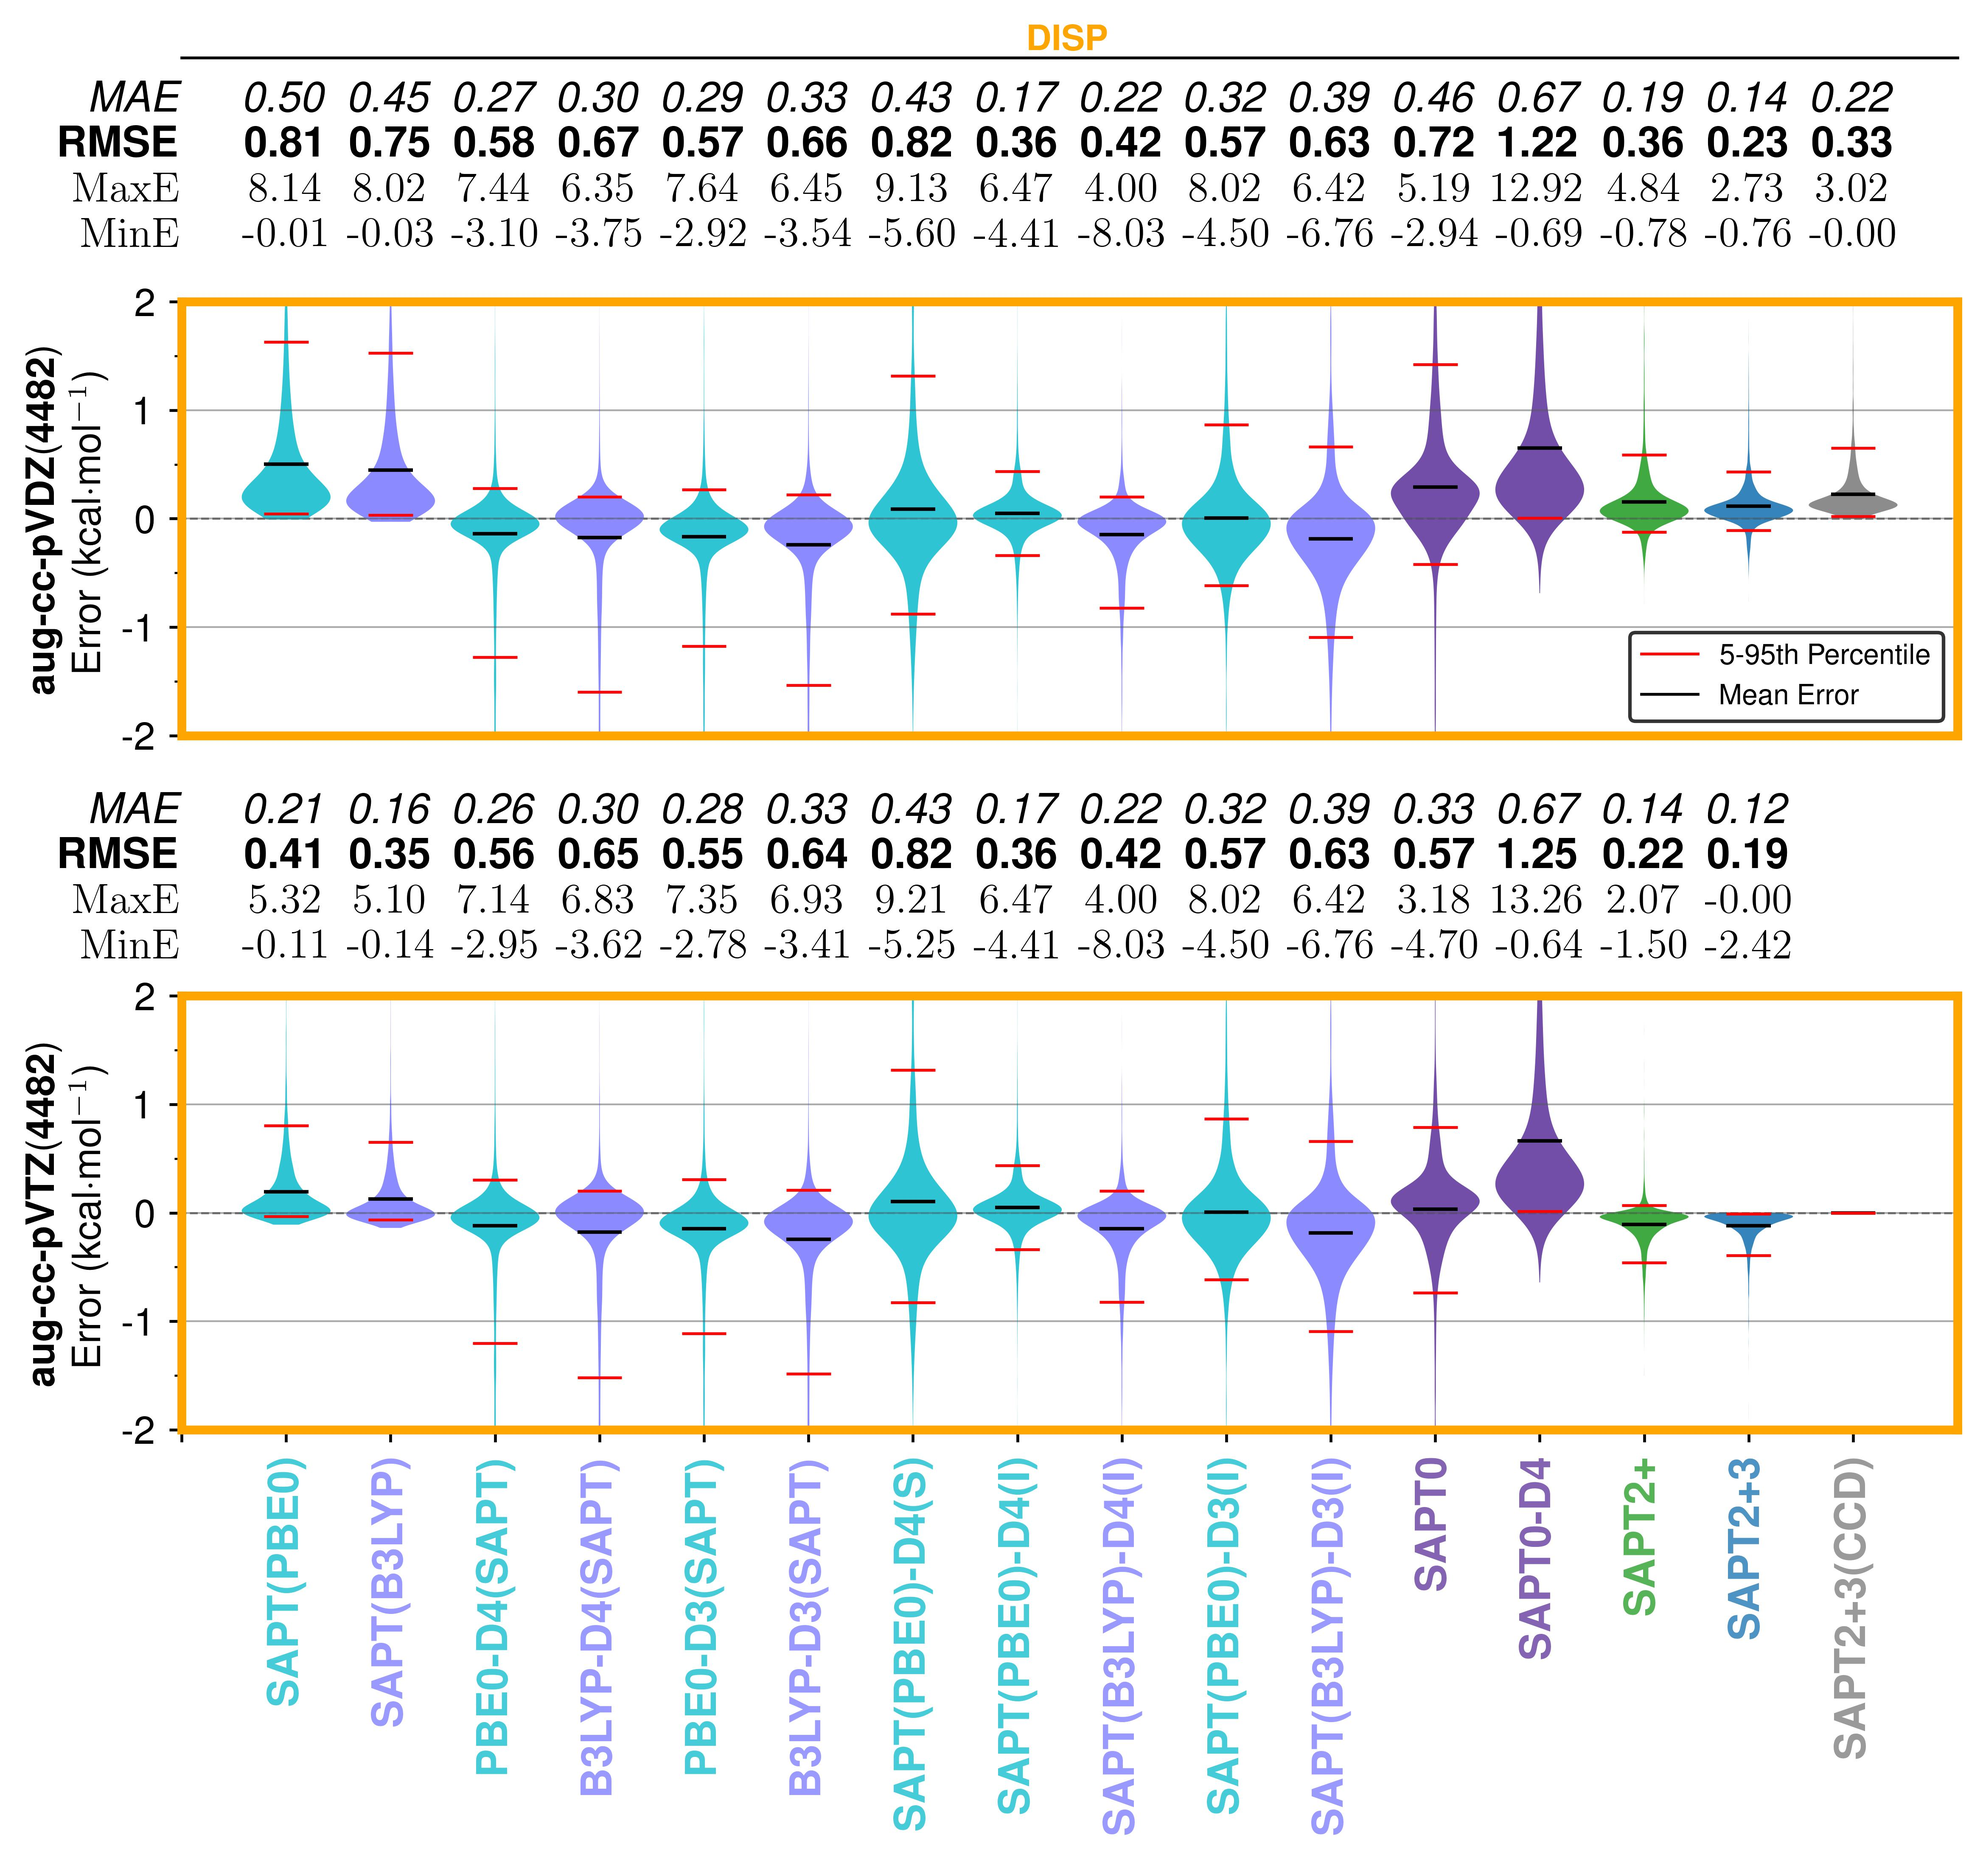
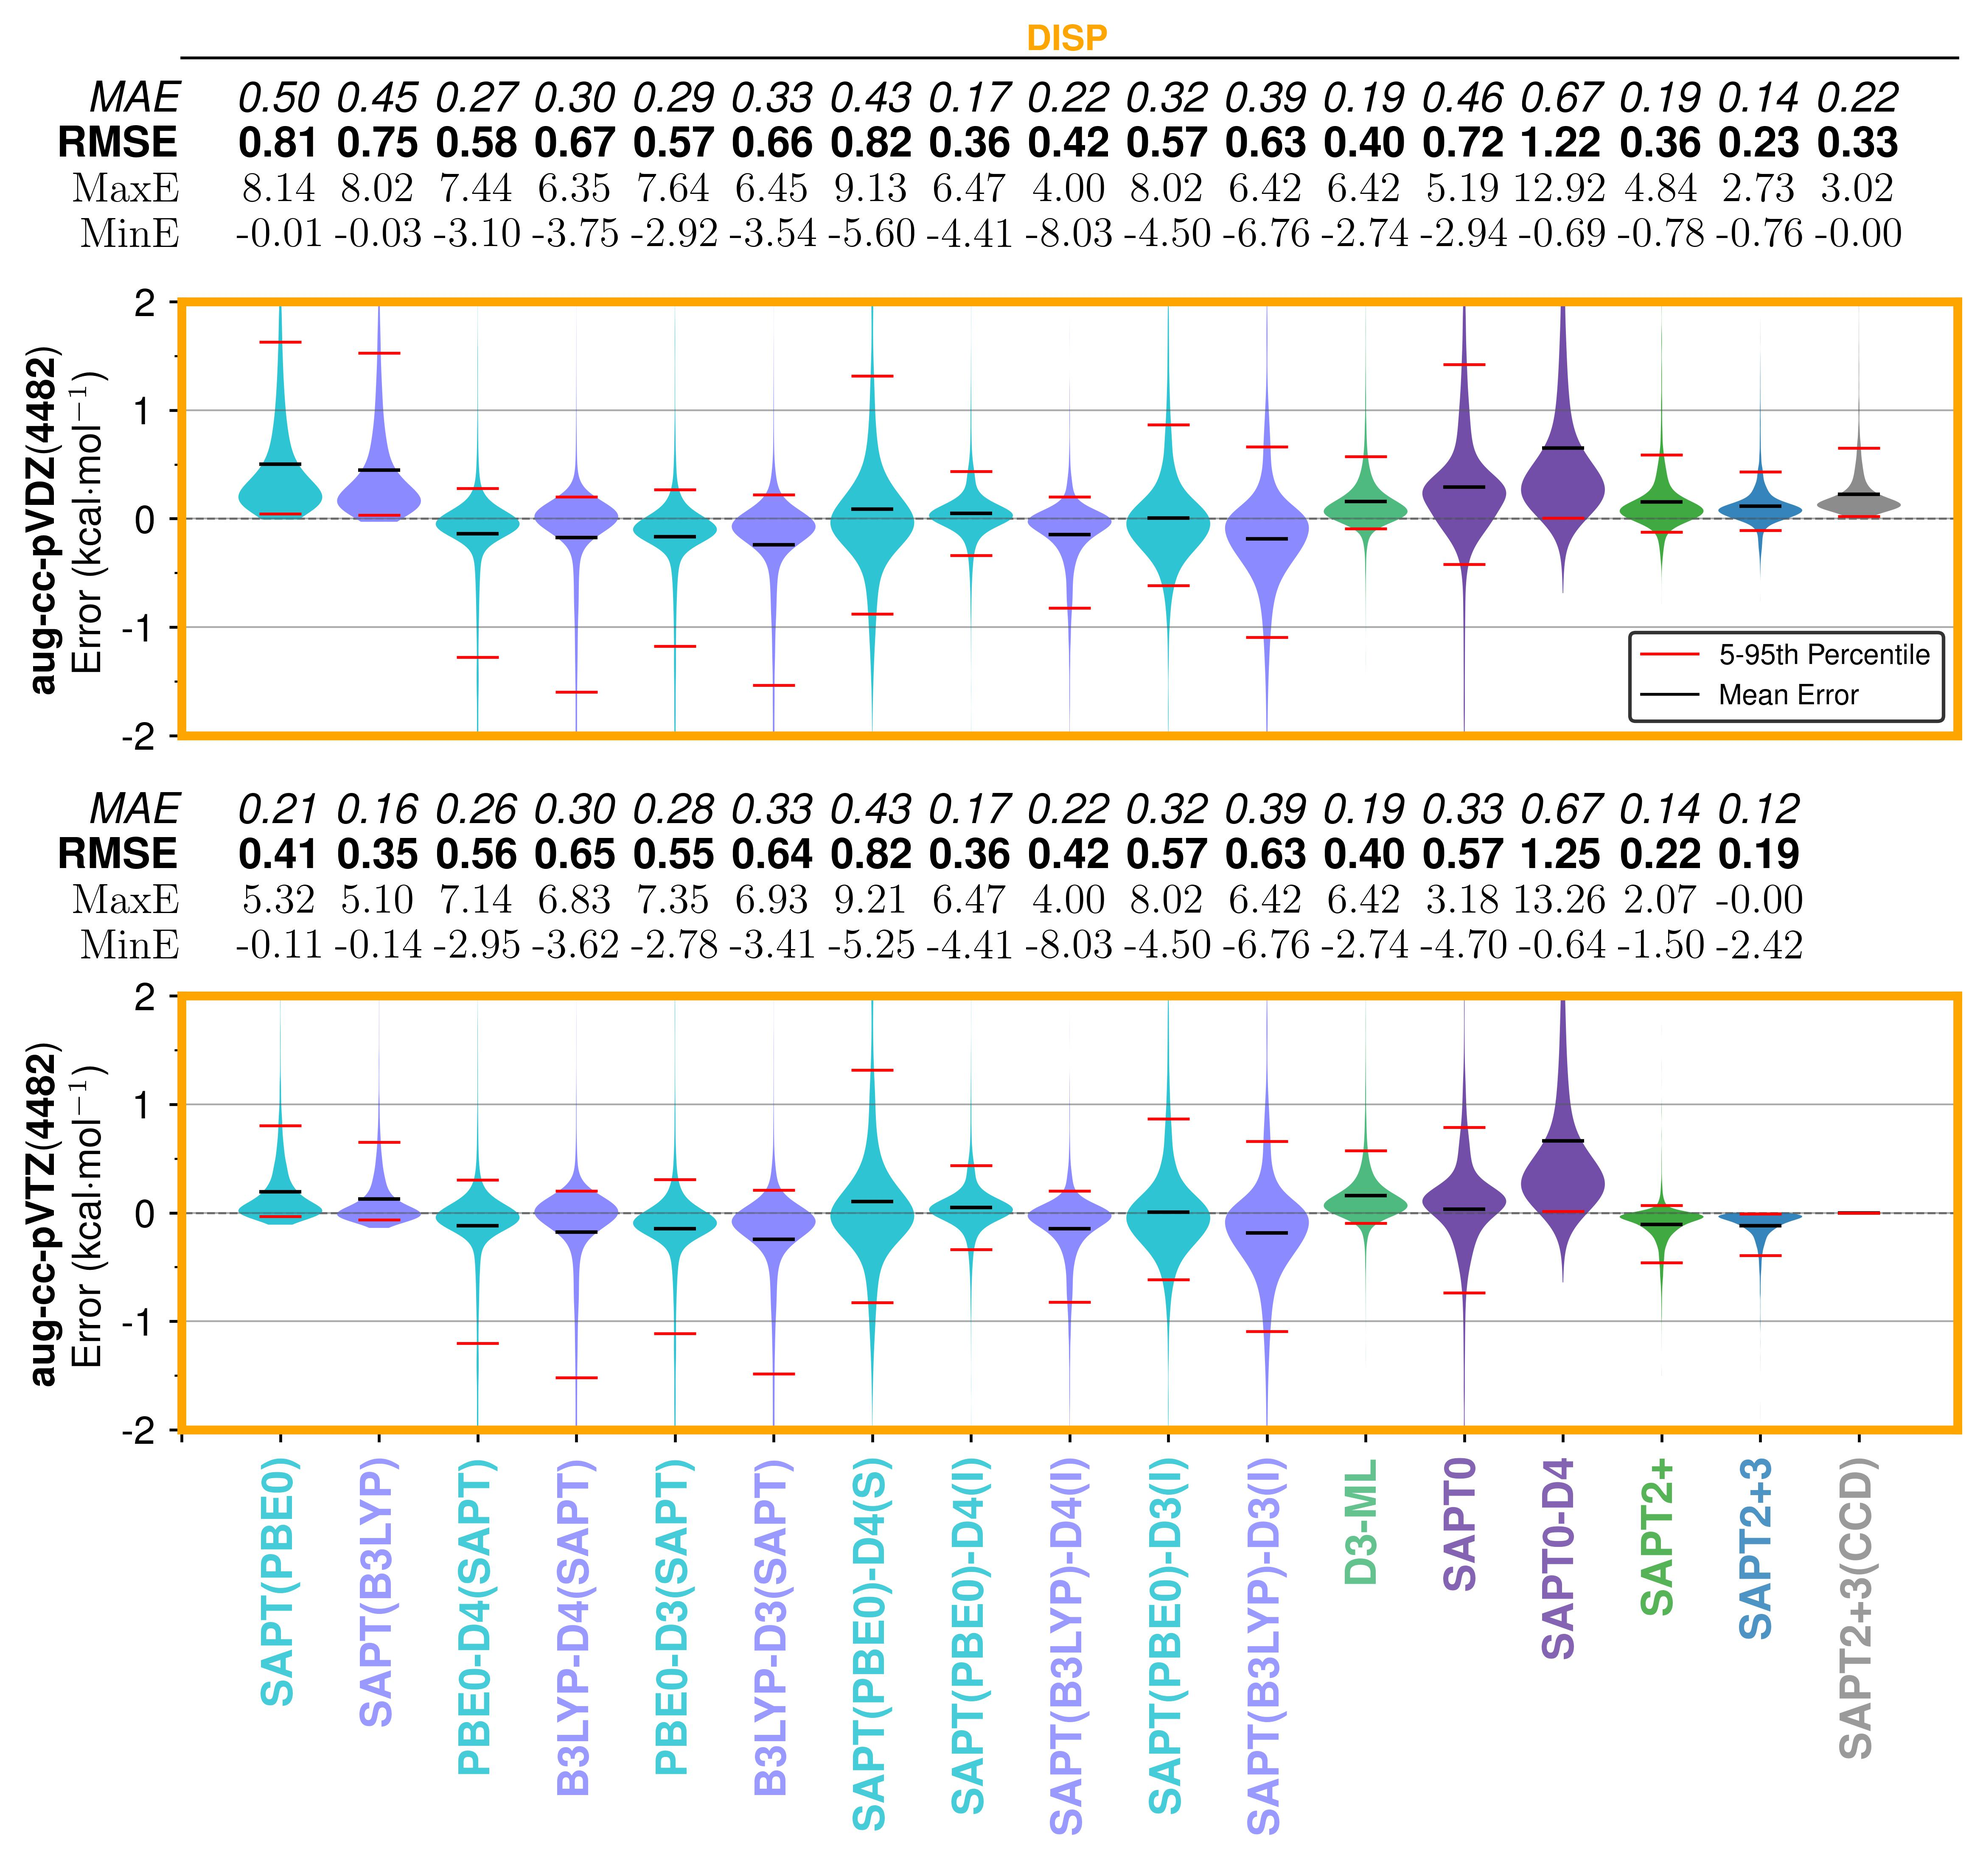
updates

diff --git a/src/plotting_saptdft.py b/src/plotting_saptdft.py
@@ -148,7 +148,7 @@ colors_disp_saptdftd4 = [
     ]
 ]
 
-colors_disp_saptdftd4_SI = [
+colors_disp_saptdftd4_si = [
     [
         TEAL,
         LIGHT_PURPLE,
@@ -4453,7 +4453,7 @@ def _disp_plot_labels():
     }
 
 
-def _disp_plot_labels_SI():
+def _disp_plot_labels_si():
     return {
         "SAPT(PBE0)": "SAPT(DFT) [PBE0] DISP ENERGY Error",
         "SAPT(B3LYP)": "SAPT(DFT) [B3LYP] DISP ENERGY Error",
@@ -5906,6 +5906,17 @@ def violin_plots_multi_components(
             limit_to_column_not_nan=limit_to_column_not_nan,
             subset_only=False,
         )
+
+    if "SI-" in figure_name_disp:
+        df_labels_and_columns = _filter_plot_labels_by_available_columns(
+            _disp_plot_labels_si(), dfs
+        )
+        colors = colors_disp_saptdftd4_si
+    else:
+        df_labels_and_columns = _filter_plot_labels_by_available_columns(
+            _disp_plot_labels(), dfs
+        )
+        colors = colors_disp_saptdftd4
     mcures_labels_start = [
         {
             "SAPT0,sSAPT0": "SAPT0 ELST ENERGY Error",
@@ -6232,8 +6243,8 @@ def violin_plots_multi_components(
     )
     cdsg_plot.error_statistics.violin_plot_table_multi_SAPT_components(
         dfs,
-        df_labels_and_columns_disp=_disp_plot_labels(),
-        colors=colors_disp_saptdftd4,
+        df_labels_and_columns_disp=df_labels_and_columns,
+        colors=colors,
         usetex=True,
         legend_loc="lower right",
         table_fontsize=table_fontsize,
@@ -7269,6 +7280,16 @@ def violin_plots_multi_components_subset(
             limit_to_column_not_nan=limit_to_column_not_nan,
             subset_only=True,
         )
+    if "SI-" in figure_name_disp:
+        df_labels_and_columns = _filter_plot_labels_by_available_columns(
+            _disp_plot_labels_si(), dfs
+        )
+        colors = colors_disp_saptdftd4
+    else:
+        df_labels_and_columns = _filter_plot_labels_by_available_columns(
+            _disp_plot_labels(), dfs
+        )
+        colors = colors_disp_saptdftd4_si
 
     sapt_reference = _COMPONENT_SAPT_REFERENCE
     sapt_methods = _COMPONENT_METHODS_SUBSET.copy()
@@ -7342,8 +7363,8 @@ def violin_plots_multi_components_subset(
     )
     cdsg_plot.error_statistics.violin_plot_table_multi_SAPT_components(
         dfs,
-        df_labels_and_columns_disp=_disp_plot_labels(),
-        colors=colors_disp_saptdftd4,
+        df_labels_and_columns_disp=df_labels_and_columns,
+        colors=colors,
         usetex=True,
         legend_loc="lower right",
         table_fontsize=table_fontsize,
@@ -8489,7 +8510,7 @@ def plot_LoS_saptdft(
     limit_col_si = "D3-ML"
     limit_cols_si = [limit_col_si, limit_col]
 
-    if False:
+    if True:
         # Main Paper
         total_full_dfs = _load_or_build(
             "./dfs/LoS_total_full_dfs.pkl",
